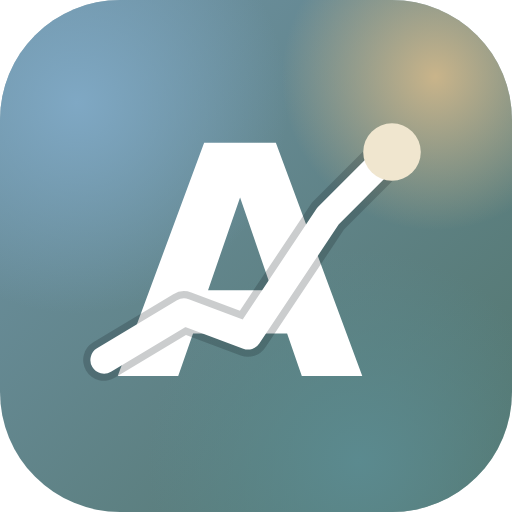
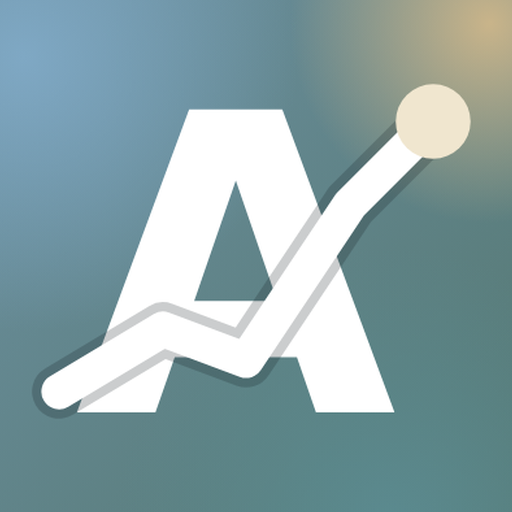
PWA: ícone full-bleed (sem cantos brancos no iOS) + metas Apple (#839)
Conferência do manifest/ícones pra instalação na tela de início:

- apple-touch-icon.png era a arte arredondada desenhada sobre fundo
  branco — na tela de início do iPhone sobravam frestas brancas nos
  cantos (o arredondamento do iOS difere do da arte) e o "maskable"
  do Android recortava um ícone já arredondado. Regenerado FULL-BLEED
  (zoom 1,3x na própria arte, gradiente preenche o quadrado inteiro);
  agora o mesmo arquivo vale como any + maskable de verdade.
- index.html: adicionadas as metas mobile-web-app-capable,
  apple-mobile-web-app-capable e apple-mobile-web-app-status-bar-style
  (black-translucent, combinando com viewport-fit=cover e o tema).
- Manifest já estava certo (standalone, nome, cores, atalho de compra).

Claude-Session: https://claude.ai/code/session_01ASeLJWbp2xaUxn5bXdwdsK

diff --git a/apps/cars-web/index.html b/apps/cars-web/index.html
@@ -11,6 +11,9 @@
     <link rel="icon" type="image/svg+xml" href="/icon.svg" />
     <link rel="apple-touch-icon" href="/apple-touch-icon.png" />
     <meta name="apple-mobile-web-app-title" content="Afinanças" />
+    <meta name="mobile-web-app-capable" content="yes" />
+    <meta name="apple-mobile-web-app-capable" content="yes" />
+    <meta name="apple-mobile-web-app-status-bar-style" content="black-translucent" />
 
     <!-- Open Graph -->
     <meta property="og:title" content="Afinanças" />
